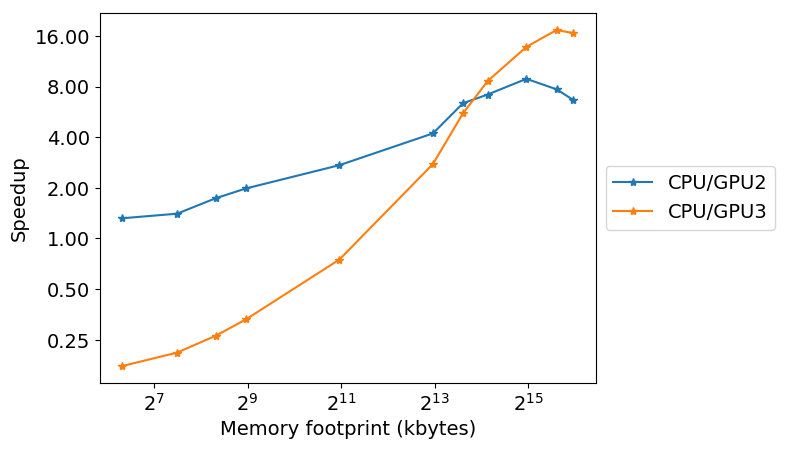
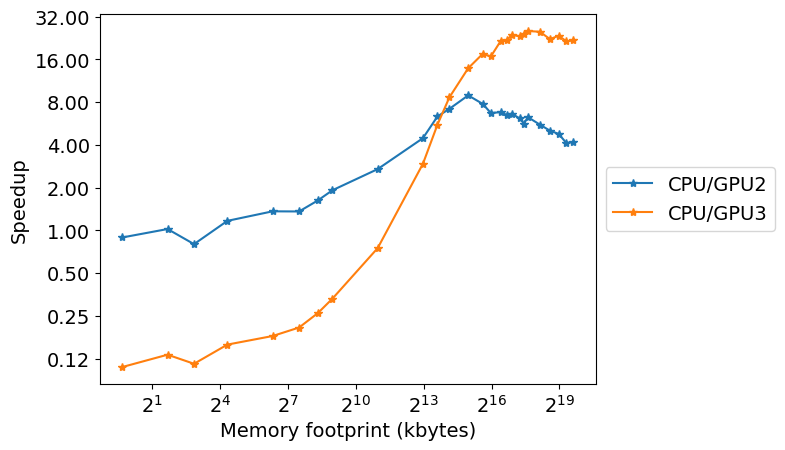
Modified plots

diff --git a/poisson/data/vizfun.py b/poisson/data/vizfun.py
@@ -9,91 +9,87 @@ font = {'size'   : 14}
 
 mpl.rc('font', **font)
 
-for files, names in zip(['statfun_poisson_CPU.dat','statfun_poisson_gpu1.dat','statfun_poisson_gpu2.dat','statfun_poisson_gpu3.dat'],
-						['statfun_poisson_CPU','statfun_poisson_gpu1','statfun_poisson_gpu2','statfun_poisson_gpu3']):
-	df1 = pd.read_csv(files,delim_whitespace=True,header=None,names=["MaxIter","Memory","MFlops","WallTime","Bandwidth","Size"])
-
-	plt.figure()
-	df1.set_index("Memory", inplace=True)
-	ax = df1["MFlops"].plot(legend=True, style ='*-')
-	plt.legend(loc='upper left')
-	plt.xlabel('Memory Footprint (Kbyte)')
-	plt.ylabel('Performance (MFlops)')
-	plt.gca().set_ylim(bottom=0)
-	plt.xscale('log',basex=4)
-	#plt.yscale('log',basey=2)
-	ax = plt.gca().xaxis 
-	if "gpu3" not in files:
-		ax.set_major_formatter(ScalarFormatter()) 
-	#ax = plt.gca().yaxis 
-	#ax.set_major_formatter(ScalarFormatter()) 
-	plt.savefig('MFlops_%s.png' % names, bbox_inches='tight')
-	plt.close()
-
-	plt.figure()
-	ax = df1["WallTime"].plot(legend=True, style ='*-')
-	plt.legend(loc='upper left')
-	plt.xlabel('Memory Footprint (Kbyte)')
-	plt.ylabel('Elapsed Wall Clock Time (s)')
-	plt.gca().set_ylim(bottom=0)
-	plt.xscale('log',basex=4)
-	#plt.yscale('log',basey=2)
-	ax = plt.gca().xaxis
-	if "gpu3" not in files:
-		ax.set_major_formatter(ScalarFormatter())
-	#ax = plt.gca().yaxis
-	#ax.set_major_formatter(ScalarFormatter())
-	plt.savefig('WallTime_%s.png' % names, bbox_inches='tight')
-	plt.close()
-
-	df1 = pd.read_csv(files,delim_whitespace=True,header=None,names=["MaxIter","Memory","MFlops","WallTime","Bandwidth","Size"])
-	df1 = df1.loc[df1['Size'] >= 100]
-	plt.figure()
-	df1.set_index("Memory", inplace=True)
-	ax = df1["Bandwidth"].plot(legend=True, style ='*-')
-	plt.legend(loc='upper left')
-	plt.xlabel('Memory footprint (Kbytes)')
-	plt.ylabel('Bandwidth (Mflops/s)')
-	#plt.gca().set_ylim(bottom=0)
-	plt.xscale('log',basex=2)
-	plt.yscale('log',basey=2)
-	plt.legend(loc='center left', bbox_to_anchor=(1, 0.5))
-	ax = plt.gca().xaxis
-	if "gpu3" not in files: 
-		ax.set_major_formatter(ScalarFormatter()) 
-	ax = plt.gca().yaxis 
-	#ax.set_major_formatter(ScalarFormatter()) 
-	plt.savefig('Bandwidth_%s.png' % names, bbox_inches='tight')
-	plt.close()
-
-	
 df1 = pd.read_csv("statfun_poisson_CPU.dat",delim_whitespace=True,header=None,names=["MaxIter","Memory","MFlops","WallTime","Bandwidth","Size"])
-df1 = df1.loc[(df1['Size'] >= 100) & (df1['Size'] < 2900)]
-df2 = pd.read_csv("statfun_poisson_gpu1.dat",delim_whitespace=True,header=None,names=["MaxIter","Memory","MFlops","WallTime","Bandwidth","Size"])
-df2 = df2.loc[(df2['Size'] >= 100) & (df2['Size'] < 2900)]
+df1 = df1.loc[(df1['Size'] >= 10) & (df1['Size'] <= 10000)]
+#df2 = pd.read_csv("statfun_poisson_gpu1.dat",delim_whitespace=True,header=None,names=["MaxIter","Memory","MFlops","WallTime","Bandwidth","Size"])
+#df2 = df2.loc[(df2['Size'] >= 10) & (df2['Size'] <= 10000)]
 df3 = pd.read_csv("statfun_poisson_gpu2.dat",delim_whitespace=True,header=None,names=["MaxIter","Memory","MFlops","WallTime","Bandwidth","Size"])
-df3 = df3.loc[(df3['Size'] >= 100) & (df3['Size'] < 2900)]
+df3 = df3.loc[(df3['Size'] >= 10) & (df3['Size'] <= 10000)]
 df4 = pd.read_csv("statfun_poisson_gpu3.dat",delim_whitespace=True,header=None,names=["MaxIter","Memory","MFlops","WallTime","Bandwidth","Size"])
-df4 = df4.loc[(df4['Size'] >= 100) & (df4['Size'] < 2900)]
+df4 = df4.loc[(df4['Size'] >= 10) & (df4['Size'] <= 10000)]
+
+plt.figure()
+df1.set_index("Memory", inplace=True)
+#df2.set_index("Memory", inplace=True)
+df3.set_index("Memory", inplace=True)
+df4.set_index("Memory", inplace=True)
+ax = df1["MFlops"].plot(legend=True, style ='*-')
+#df2["MFlops"].plot(legend=True, style ='*-',ax=ax)
+df3["MFlops"].plot(legend=True, style ='*-',ax=ax)
+df4["MFlops"].plot(legend=True, style ='*-',ax=ax)
+plt.legend(["CPU","GPU1","GPU2","GPU3"],loc='upper left')
+plt.xlabel('Memory Footprint (Kbyte)')
+plt.ylabel('Performance (MFlops)')
+plt.gca().set_ylim(bottom=0)
+plt.xscale('log',basex=4)
+#plt.yscale('log',basey=2)
+ax = plt.gca().xaxis
+#ax.set_major_formatter(ScalarFormatter())
+ax = plt.gca().yaxis
+ax.set_major_formatter(ScalarFormatter())
+plt.savefig('MFlops.png', bbox_inches='tight')
+plt.close()
+
+
+plt.figure()
+ax = df1["WallTime"].plot(legend=True, style ='*-')
+#df2["WallTime"].plot(legend=True, style ='*-',ax=ax)
+df3["WallTime"].plot(legend=True, style ='*-',ax=ax)
+df4["WallTime"].plot(legend=True, style ='*-',ax=ax)
+plt.legend(["CPU","GPU1","GPU2","GPU3"],loc='upper left')
+plt.xlabel('Memory Footprint (Kbyte)')
+plt.ylabel('Elapsed Wall Clock Time (s)')
+plt.gca().set_ylim(bottom=0)
+plt.xscale('log',basex=4)
+#plt.yscale('log',basey=2)
+ax = plt.gca().xaxis
+#ax.set_major_formatter(ScalarFormatter())
+#ax = plt.gca().yaxis
+#ax.set_major_formatter(ScalarFormatter())
+plt.savefig('WallTime.png', bbox_inches='tight')
+plt.close()
+                                                             
+
+plt.figure()
+ax = df1["Bandwidth"].plot(legend=True, style ='*-')
+#df2["Bandwidth"].plot(legend=True, style ='*-',ax=ax)
+df3["Bandwidth"].plot(legend=True, style ='*-',ax=ax)
+df4["Bandwidth"].plot(legend=True, style ='*-',ax=ax)
+plt.legend(["CPU","GPU1","GPU2","GPU3"],loc='upper left')
+plt.xlabel('Memory footprint (Kbytes)')
+plt.ylabel('Bandwidth (Mflops/s)')
+#plt.gca().set_ylim(bottom=0)
+plt.xscale('log',basex=2)
+plt.yscale('log',basey=2)
+ax = plt.gca().xaxis
+#ax.set_major_formatter(ScalarFormatter())
+ax = plt.gca().yaxis
+ax.set_major_formatter(ScalarFormatter())
+plt.savefig('Bandwidth.png', bbox_inches='tight')
+plt.close()
+                                                                                                                                    
 
 plt.figure()
 df1 = df1.sort_values(['Size'],ascending=True)
-df2 = df2.sort_values(['Size'],ascending=True)
+#df2 = df2.sort_values(['Size'],ascending=True)
 df3 = df3.sort_values(['Size'],ascending=True)
 df4 = df4.sort_values(['Size'],ascending=True)
-
-#df2['CPU/GPU1'] = df1['WallTime']/df2['WallTime']
+#df2['CPU/GPU1'] = df1.loc[df1['Size'] < 2900]['WallTime']/df2['WallTime']
 df3['CPU/GPU2'] = df1['WallTime']/df3['WallTime']
 df4['CPU/GPU3'] = df1['WallTime']/df4['WallTime']
-
-df2.set_index("Memory", inplace=True)
-df3.set_index("Memory", inplace=True)
-df4.set_index("Memory", inplace=True)
-
 #ax = df2["Speedup"].plot(legend=True, style ='*-')
 ax = df3["CPU/GPU2"].plot(legend=True, style ='*-')
 ax = df4["CPU/GPU3"].plot(legend=True, style ='*-')
-
 plt.legend(loc='center left', bbox_to_anchor=(1, 0.5))
 plt.xlabel('Memory footprint (kbytes)')
 plt.ylabel('Speedup')
